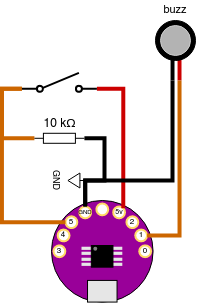
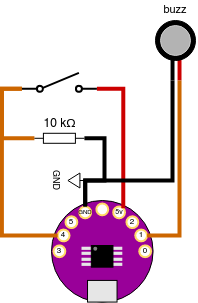
added some diagrams

Changed region(s): [[0.0, 0.7129, 0.3333, 0.802]]

diff --git a/Guide/guide.md b/Guide/guide.md
@@ -45,7 +45,10 @@ This circuit lights a LED from the power supplied by your board. Connect the boa
 </fig>
 
 
-# Programmable Led Blink and Glow
+# Controlling the Led with Code
+
+Now connect the flat end, or cathode, of the LED to pin 1 instead of the 5V pin. This is an input/output (I/O) pin that you can control directly by writing code. Instead of constantly supplying 5V to the LED from the 5V pin, we're going to use a program (called a "Sketch") to make the LED blink once a second.
+
 
 <fig>
 <img src="./TINY85LILY_LED_BLINK.png">
@@ -67,9 +70,34 @@ void loop() {
 }
 ```
 
+Arduino sketches have two main sections, called "functions". These functions are setup() and loop(). The setup() function runs only once, at the moment when your LilyTiny board is turned on or reset. Thereafter the loop() function runs and repeats endlessly.
+
+The setup() function is where you put commands that configure the board for your sketch. In this case, we configure the behavior of the pins we will be using. We're only using pin 1. And we want to use pin 1 as a digital output to turn the LED on and off. So we use the pinMode() command.
+
+The pinMode() command takes two inputs separately by a comma. The first input is the number of the pin that will be configured. And the second input is the type of configuration. Valid values for the second input of pinMode() are INPUT and OUTPUT (mind the capitalization!).
+
+The loop() function is where you define the ongoing behavior of your device. In this case we use two commands: digitalWrite() and delay() in a specific order to make the LED turn on and off.
+
+The digitalWrite() command sets the value of an output pin to either ON or OFF. In the case of the LilyTiny board, these values always correspond to voltages of +5 and 0 being output by the pin. In your code, an ON value is represented by the number 1, and an OFF value is represented by the number 0. digitalWrite() takes two inputs separated by a comma, the first input is the pin number that you want to control, and the second input is the value (1 or 0) to output on that pin.
+
+The delay() command makes the microcontroller pause for a number of milliseconds. delay() takes only one input, which is the number of milliseconds to pause for, in this case 1000 (1 second).
+
+Try and understand the sequence of commands. Also try changing the number of milliseconds of each delay inside each delay() command, upload the sketch again to your board and see how it changes.
+
+---
+
+## Analog Output
+
+Instead of outputting only ON and OFF, you can also use certain pins to output analog signals. Analog signals are non-binary and can vary smoothly between the two voltage extremes that the LilyTiny can handle (0-5V).
+
+The board generates analog signals using a technique called Pulse Width Modulation (PWM). Only pins 0, 1 and 4 are capable of PWM outputs.
+
+Now try uploading this sketch to your board. Keep the circuit the same. We are going to use pin 1 as an analog output instead of a digital output to make the LED fade smoothly from darkness to full brightness.
 
 ```
 // Fade sketch
+
+// A variable to store the brightness value
 int brightness = 0;  // goes from 0 to 255
 
 void setup() {               
@@ -77,11 +105,11 @@ void setup() {
 }
 
 void loop() {
-  analogWrite(1, brightness);
-  brightness = brightness + 1;
-  delay(10);
-  if(brightness > 255) {
-    brightness = 0;
+  analogWrite(1, brightness);    // write the value of brightness to the pin
+  brightness = brightness + 1;   // add 1 to the brightness value
+  delay(10);                     // delay for stability
+  if(brightness > 255) {         // this is a conditional (if) statement
+    brightness = 0;              // if brightness is greater than 255, reset it to 0
   }
 }
 ```
@@ -117,7 +145,7 @@ Additionally, the board has three power pins:
   Vin -> External power (via battery) must be between 6-16 V
   +5v -> +5V power from the board, use this for powering sensors
 
-
+> NOTE: Be careful when using PIN 5, since it's the reset button, if you have sensors connected to it you could potentially run into errors trying to program the LilyTiny85.
 
 <fig>
 <img src="./TINY85LILY_PINOUTS.png">
@@ -128,6 +156,7 @@ Additionally, the board has three power pins:
 
 <a href="https://www.kobakant.at/DIY/?p=838">All about pull-up resistors and voltage dividers on Kobakant's website.</a>
 
+Notice that the left side of the switch is connected to *TWO* other points: the left side of the resistor and PIN 4 of the LilyTiny board.
 
 <fig>
 <img src="./TINY85LILY_BUTTON_VIB.png">
@@ -135,16 +164,16 @@ Additionally, the board has three power pins:
 </fig>
 
 ```
-// CONTROL THE VIBRO MOTOR ON PIN 1 USING A BUTTON IN PIN 5
+// CONTROL THE VIBRO MOTOR ON PIN 1 USING A BUTTON IN PIN 4
 
 void setup() {
   pinMode(1, OUTPUT);
-  pinMode(5, INPUT);    // configure pin 5 to be a digital input
+  pinMode(4, INPUT);    // configure pin 4 to be a digital input
 }
 
 void loop() {
   int button_value = 0;
-  button_value = digitalRead(5);
+  button_value = digitalRead(4);
   digitalWrite(1, button_value);
   delay(10); // delay for stability
 }
